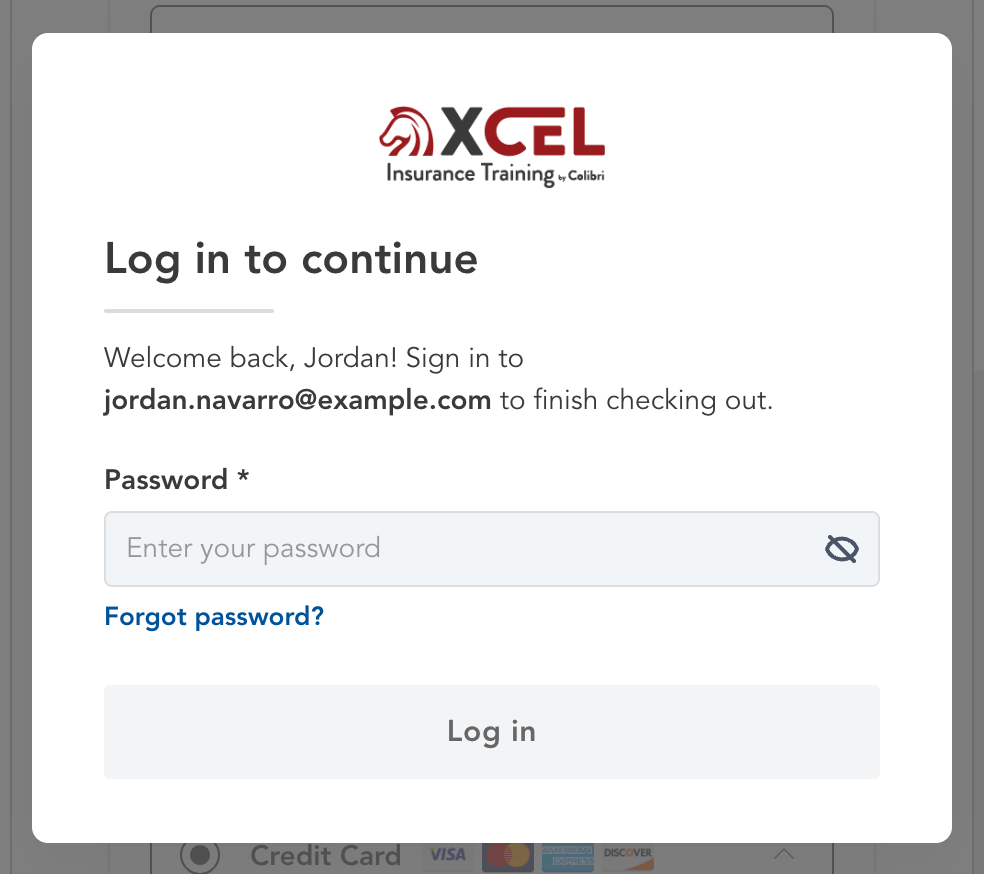
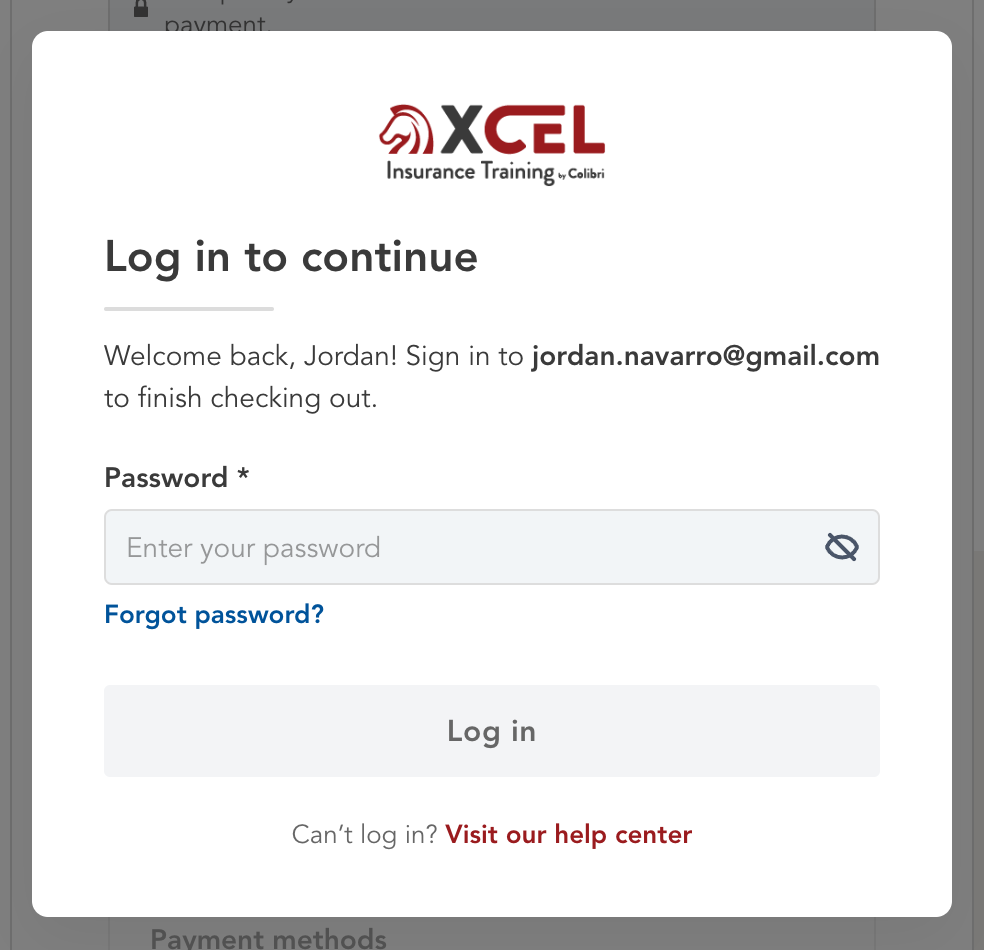
feat(invite-v3): inline email error and a help-center line on Log in
The modals' editable email fields say "Please enter a valid email
address" under the field as the learner types, with the red stroke, and
clear once it is an address. Log in to continue gains "Can't log in?
Visit our help center" under Log in, the link in brick (drawn only).
Handoff states and screenshots added.

diff --git a/src/data/handoffs/xcel-invite-v3-checkout-modals.ts b/src/data/handoffs/xcel-invite-v3-checkout-modals.ts
@@ -24,7 +24,7 @@ const feature: PrototypeFeature = {
   devStatus: 'not-ready',
   surface: 'invite',
   owner: 'Afsana',
-  lastUpdated: '2026-11-13T17:57:57Z',
+  lastUpdated: '2026-11-13T18:18:06Z',
   accent: 'gold',
   icon: 'flag',
   brands: ['xcel'],
@@ -86,13 +86,15 @@ const feature: PrototypeFeature = {
         variants: [
           { name: 'Empty', when: 'On open. Continue is off.' },
           { name: 'Valid email', when: 'The field holds something shaped like an email address. Continue turns on.' },
+          { name: 'Not a valid email', when: 'The field holds something that is not an email address. As the learner types, "Please enter a valid email address" shows in red under the field, with a red stroke along its bottom; Continue stays off. Both go the moment it is an address, and an empty field shows no error.', why: 'The learner learns why Continue is off while they are still in the field, rather than guessing.' },
           { name: 'Pre-filled (Direct Email)', when: 'Direct Email when the address has no Atlas account. The field opens holding the address the partner supplied, and Continue is on.', why: 'The learner sees where the code is going before it is sent, instead of a code arriving unannounced.' },
         ],
         ctas: [
           { name: 'Continue', does: 'Off until the email is valid. Then opens Log in to continue if the email has an Atlas account, otherwise Enter your one-time code.' },
         ],
         statesMatrix: [
-          { question: 'What if the email is not valid?', answer: 'Continue stays off until it looks like an email address. There is no error message.' },
+          { question: 'What if the email is not valid?', answer: '"Please enter a valid email address" in red under the field, 12px, with a 2px red stroke along its bottom, shown as the learner types. Continue stays off until it is an address.' },
+          { question: 'What if the field is empty?', answer: 'No error — there is nothing to judge yet. Continue is off.' },
           { question: 'Can the learner close it?', answer: 'No. There is no ✕ and no Escape — the checkout behind it cannot be used until the email is checked.' },
         ],
         edgeCases: [
@@ -242,11 +244,12 @@ const feature: PrototypeFeature = {
         tabLabel: 'Log in',
         location: 'Over the checkout, after Enter your email when the email has an Atlas account — or first, on Direct Email, with the address pre-filled in an editable field. src/components/e2e/VerifyEmailModalV3.tsx — LoginStep.',
         summary:
-          'The XCEL logo, "Log in to continue", and "Welcome back, [first name]! Sign in to [email, bold] to finish checking out." — the address in the sentence. On Direct Email the line is "Welcome back, [first name]! Sign in to finish checking out." and the address is in an Email address field above the password, pre-filled from the invitation and editable. A password field with show and hide, Forgot password?, and Log in. Forgot password? turns the modal into Check your email; following the link opens Reset your password.',
+          'The XCEL logo, "Log in to continue", and "Welcome back, [first name]! Sign in to [email, bold] to finish checking out." — the address in the sentence. On Direct Email the line is "Welcome back, [first name]! Sign in to finish checking out." and the address is in an Email address field above the password, pre-filled from the invitation and editable. A password field with show and hide, Forgot password?, Log in, and under it, centred, "Can’t log in? Visit our help center" with the link in brick red. Forgot password? turns the modal into Check your email; following the link opens Reset your password.',
         variants: [
           { name: 'Empty password', when: 'On open. Log in is off.' },
           { name: 'Password entered', when: 'Anything in the field. Log in turns on.' },
           { name: 'Direct Email — address pre-filled', when: 'Direct Email with an Atlas account. An Email address field holds the invited address, editable like any field — no lock, no grey; the line drops the address. Log in needs a password and a valid email.', why: 'The learner sees which account they are signing in to, and can sign in with another address if the invitation went to a different one.' },
+          { name: 'Direct Email — not a valid email', when: 'Direct Email, the Email address field edited into something that is not an address. "Please enter a valid email address" in red under it, as the learner types, with a red stroke along its bottom. Log in stays off.' },
           { name: 'Wrong password', when: 'Log in with a password that does not match. Red text under the field — "We couldn’t log you in. Please try again." — and a red stroke along the field’s bottom. Editing the password clears both.' },
           { name: 'Check your email', when: 'Forgot password? was clicked. The modal becomes "Check your email": "We sent a password reset link to [email, bold]. Follow the instructions in the email to reset your password. Be sure to check your spam or junk folders." Under it, the address in an Email address field, disabled — grey, no lock. Resend link (primary), the countdown under it while it waits, then Back to sign in (secondary).' },
           { name: 'Resend link waiting', when: 'Check your email, straight after a link is sent and after every resend. Resend link is disabled for 30 seconds, and a line under it counts down: "You can resend the link in 0:30". The line goes when the button turns on.', why: 'A link has just gone out; a second request before the first can arrive only multiplies the emails.' },
@@ -258,12 +261,14 @@ const feature: PrototypeFeature = {
           { name: 'Password eye', does: 'Shows or hides the password.' },
           { name: 'Forgot password?', does: 'Sends a reset link to the address and turns the modal into Check your email.' },
           { name: 'Log in', does: 'Off until there is a password. Then signs in and opens Signing you in…, or shows the wrong-password error.' },
+          { name: 'Visit our help center', does: 'Under Log in, centred: "Can’t log in? Visit our help center", the link in brick red. Drawn only — it goes nowhere yet; the help center’s address is not settled.' },
           { name: 'Resend link (Check your email)', does: 'Disabled for 30 seconds after each send, the first included, with the countdown under it. Then sends another reset link and is disabled again.' },
           { name: 'Back to sign in (Check your email)', does: 'Returns to Log in to continue.' },
           { name: 'Password and Confirm new password eyes (Reset your password)', does: 'Show or hide each field.' },
           { name: 'Reset password', does: 'Off until all seven rules are met and both fields match. Then saves the new password and returns to Log in to continue with the Password reset banner (proposed).' },
         ],
         statesMatrix: [
+          { question: 'What if the Direct Email address is not valid?', answer: '"Please enter a valid email address" in red under the field as the learner types, with a red stroke along its bottom. Log in stays off.' },
           { question: 'What if the password is wrong?', answer: '"We couldn’t log you in. Please try again." in red under the field, 12px, with a 2px red stroke along its bottom. Log in stays on.' },
           { question: 'How long is Resend link disabled?', answer: '30 seconds after each send, counted down under the button.' },
           { question: 'Can the learner change the address on Check your email?', answer: 'No. It is shown in a disabled field — grey, no lock. To use a different address they go Back to sign in.' },

diff --git a/src/components/e2e/VerifyEmailModalV3.tsx b/src/components/e2e/VerifyEmailModalV3.tsx
@@ -84,6 +84,9 @@ export function VerifyEmailModalV3({
   const layer = useV3DialogLayer()
   const [email, setEmail] = useState(suppliedEmail ?? '')
   const ready = looksLikeEmail(email)
+  /* Said as the learner types, once there is something to judge
+     (2026-11-13, Afsana). */
+  const badEmail = email.trim() !== '' && !ready
   /* The name — asked after the code, for a learner with no Atlas account
      (2026-11-13, Afsana); the log-in finds it on the account, so it stays
      empty there. The checkout's student form arrives with it filled. */
@@ -143,22 +146,27 @@ export function VerifyEmailModalV3({
               </p>
             </div>
 
-            <label htmlFor="verify-email" style={FIELD_GROUP}>
-              <span style={FIELD_LABEL}>
-                Email address<span aria-hidden>*</span>
-              </span>
-              <input
-                id="verify-email"
-                type="email"
-                required
-                autoComplete="email"
-                placeholder="you@example.com"
-                value={email}
-                onChange={(e) => setEmail(e.target.value)}
-                className="cre-e2e-input cre-e2e-input-v3"
-                style={FIELD}
-              />
-            </label>
+            <div style={FIELD_AND_ERROR}>
+              <label htmlFor="verify-email" style={FIELD_GROUP}>
+                <span style={FIELD_LABEL}>
+                  Email address<span aria-hidden>*</span>
+                </span>
+                <input
+                  id="verify-email"
+                  type="email"
+                  required
+                  autoComplete="email"
+                  placeholder="you@example.com"
+                  value={email}
+                  onChange={(e) => setEmail(e.target.value)}
+                  aria-invalid={badEmail}
+                  aria-describedby={badEmail ? 'verify-email-invalid' : undefined}
+                  className="cre-e2e-input cre-e2e-input-v3"
+                  style={badEmail ? { ...FIELD, ...FIELD_INVALID } : FIELD}
+                />
+              </label>
+              {badEmail ? <EmailInvalid id="verify-email-invalid" /> : null}
+            </div>
 
             <div style={ACTIONS}>
               <button
@@ -559,6 +567,7 @@ function LoginStep({
   const canResend = linkWait <= 0
   /* Direct Email's field can be edited, so it has to hold an address too. */
   const ready = password !== '' && (!supplied || looksLikeEmail(email))
+  const badEmail = supplied && email.trim() !== '' && !looksLikeEmail(email)
   if (resetting) {
     return (
       <ResetPasswordStep
@@ -671,21 +680,26 @@ function LoginStep({
         {/* Direct Email's address, pre-filled from the invitation and
             editable — no lock, no grey (2026-11-13, Afsana). */}
         {supplied ? (
-          <label htmlFor="login-email" style={FIELD_GROUP}>
-            <span style={FIELD_LABEL}>
-              Email address <span aria-hidden>*</span>
-            </span>
-            <input
-              id="login-email"
-              type="email"
-              required
-              autoComplete="email"
-              value={email}
-              onChange={(e) => onEmailChange(e.target.value)}
-              className="cre-e2e-input cre-e2e-input-v3"
-              style={FIELD}
-            />
-          </label>
+          <div style={FIELD_AND_ERROR}>
+            <label htmlFor="login-email" style={FIELD_GROUP}>
+              <span style={FIELD_LABEL}>
+                Email address <span aria-hidden>*</span>
+              </span>
+              <input
+                id="login-email"
+                type="email"
+                required
+                autoComplete="email"
+                value={email}
+                onChange={(e) => onEmailChange(e.target.value)}
+                aria-invalid={badEmail}
+                aria-describedby={badEmail ? 'login-email-invalid' : undefined}
+                className="cre-e2e-input cre-e2e-input-v3"
+                style={badEmail ? { ...FIELD, ...FIELD_INVALID } : FIELD}
+              />
+            </label>
+            {badEmail ? <EmailInvalid id="login-email-invalid" /> : null}
+          </div>
         ) : null}
         <div style={{ display: 'flex', flexDirection: 'column', gap: 6 }}>
           <label htmlFor="login-password" style={FIELD_GROUP}>
@@ -754,6 +768,14 @@ function LoginStep({
           Log in
         </button>
       </div>
+      {/* The way out for a learner who cannot get in at all (2026-11-13,
+          Afsana). Drawn only — the help center's address is not settled. */}
+      <p style={{ ...NOTE, textAlign: 'center' }}>
+        Can’t log in?{' '}
+        <button type="button" className="cre-e2e-textlink" style={{ ...TEXT_LINK, color: 'var(--color-xcel-brick)' }}>
+          Visit our help center
+        </button>
+      </p>
     </form>
   )
 }
@@ -1047,6 +1069,19 @@ const CODE_BOX_INVALID: CSSProperties = { boxShadow: 'inset 0 -2px 0 var(--color
 
 /* The same stroke under the log-in password on a wrong password. */
 const FIELD_INVALID: CSSProperties = CODE_BOX_INVALID
+
+/* A field with its error line under it, 6px apart — as the password's. */
+const FIELD_AND_ERROR: CSSProperties = { display: 'flex', flexDirection: 'column', gap: 6 }
+
+/** The email fields' inline error — shown as the learner types, while what
+ *  is there is not an address (2026-11-13, Afsana). */
+function EmailInvalid({ id }: { id: string }) {
+  return (
+    <p id={id} role="alert" style={INVALID}>
+      Please enter a valid email address
+    </p>
+  )
+}
 
 const ACTIONS: CSSProperties = {
   display: 'flex',

diff --git a/src/test/InviteFlowV3Screens.test.tsx b/src/test/InviteFlowV3Screens.test.tsx
@@ -229,10 +229,29 @@ describe('Invite Flow V3 — the email check', () => {
     expect(screen.queryByText(/This is the address you verified/)).not.toBeInTheDocument()
     const go = screen.getByRole('button', { name: 'Continue' })
     expect(go).toBeDisabled()
-    await userEvent.type(screen.getByLabelText(/Email address/), 'sam@example')
+    /* An empty field says nothing; a half-typed one says why Continue is off. */
+    expect(screen.queryByText('Please enter a valid email address')).not.toBeInTheDocument()
+    const field = screen.getByLabelText(/Email address/)
+    await userEvent.type(field, 'sam@example')
     expect(go).toBeDisabled()
-    await userEvent.type(screen.getByLabelText(/Email address/), '.com')
+    expect(field).toHaveAccessibleDescription('Please enter a valid email address')
+    expect(field).toHaveAttribute('aria-invalid', 'true')
+    await userEvent.type(field, '.com')
     expect(go).toBeEnabled()
+    expect(screen.queryByText('Please enter a valid email address')).not.toBeInTheDocument()
+  })
+
+  it('says when the Direct Email log-in address is not valid, and offers the help center', async () => {
+    renderAt(CHECKOUT, 'invite-flow-version:v3,invite-v3-model:b2b,invite-v3-flow-b2b:direct-email,invite-v3-email-account:atlas')
+    const dialog = screen.getByRole('dialog', { name: 'Log in to continue' })
+    const field = within(dialog).getByLabelText(/Email address/)
+    await userEvent.clear(field)
+    await userEvent.type(field, 'jordan@')
+    expect(field).toHaveAccessibleDescription('Please enter a valid email address')
+    await userEvent.type(field, 'example.com')
+    expect(within(dialog).queryByText('Please enter a valid email address')).not.toBeInTheDocument()
+    expect(dialog).toHaveTextContent('Can’t log in? Visit our help center')
+    expect(within(dialog).getByRole('button', { name: 'Visit our help center' })).toBeInTheDocument()
   })
 
   it('shows the one-time code step with the logo, and unlocks Resend after 10 minutes', async () => {

diff --git a/src/components/prototype/inviteV3HandoffStateImages.ts b/src/components/prototype/inviteV3HandoffStateImages.ts
@@ -27,6 +27,7 @@ const STATE_IMAGES: Record<string, Record<string, string>> = {
     Empty: `${MODALS}/enter-email--empty.png`,
     'Valid email': `${MODALS}/enter-email--valid.png`,
     'Pre-filled (Direct Email)': `${MODALS}/enter-email--prefilled.png`,
+    'Not a valid email': `${MODALS}/enter-email--invalid.png`,
   },
   'v3-one-time-code': {
     Empty: `${MODALS}/one-time-code--empty.png`,
@@ -47,6 +48,7 @@ const STATE_IMAGES: Record<string, Record<string, string>> = {
     'Empty password': `${MODALS}/log-in--empty.png`,
     'Password entered': `${MODALS}/log-in--entered.png`,
     'Direct Email — address pre-filled': `${MODALS}/log-in--direct-email.png`,
+    'Direct Email — not a valid email': `${MODALS}/log-in--direct-email-invalid.png`,
     'Wrong password': `${MODALS}/log-in--wrong.png`,
     'Check your email': `${MODALS}/log-in--check-email.png`,
     'Resend link waiting': `${MODALS}/log-in--resend-waiting.png`,
